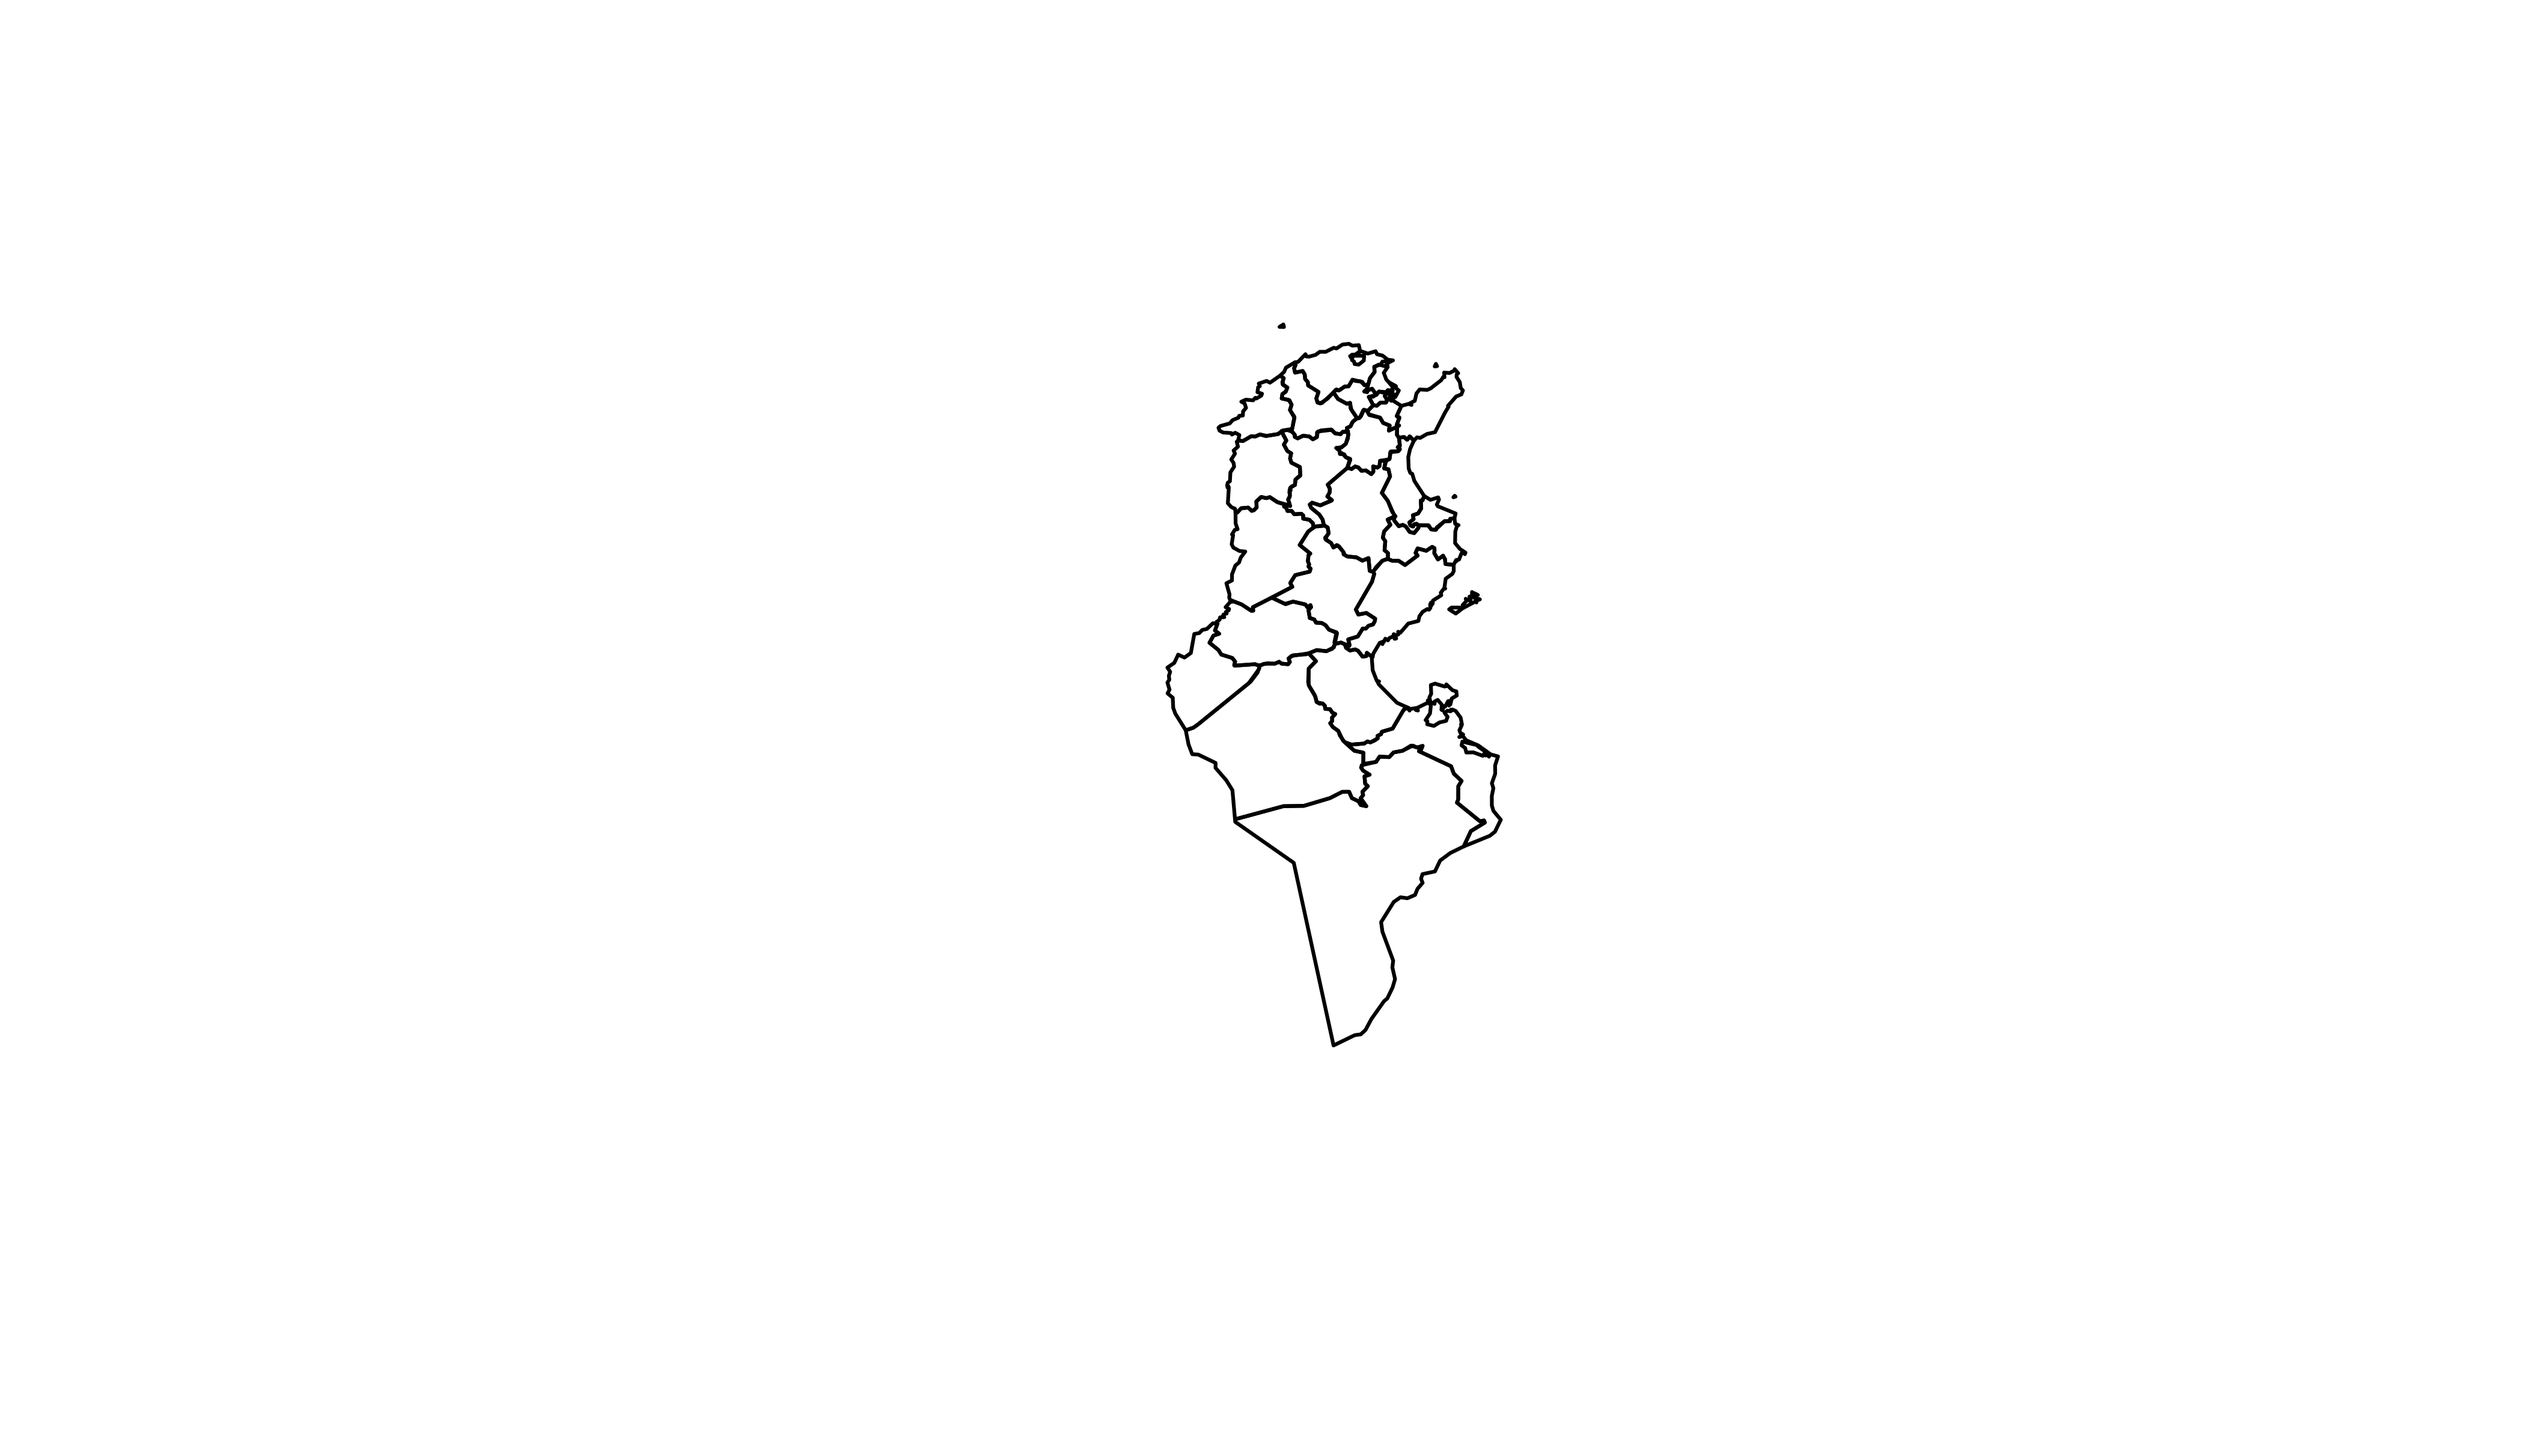
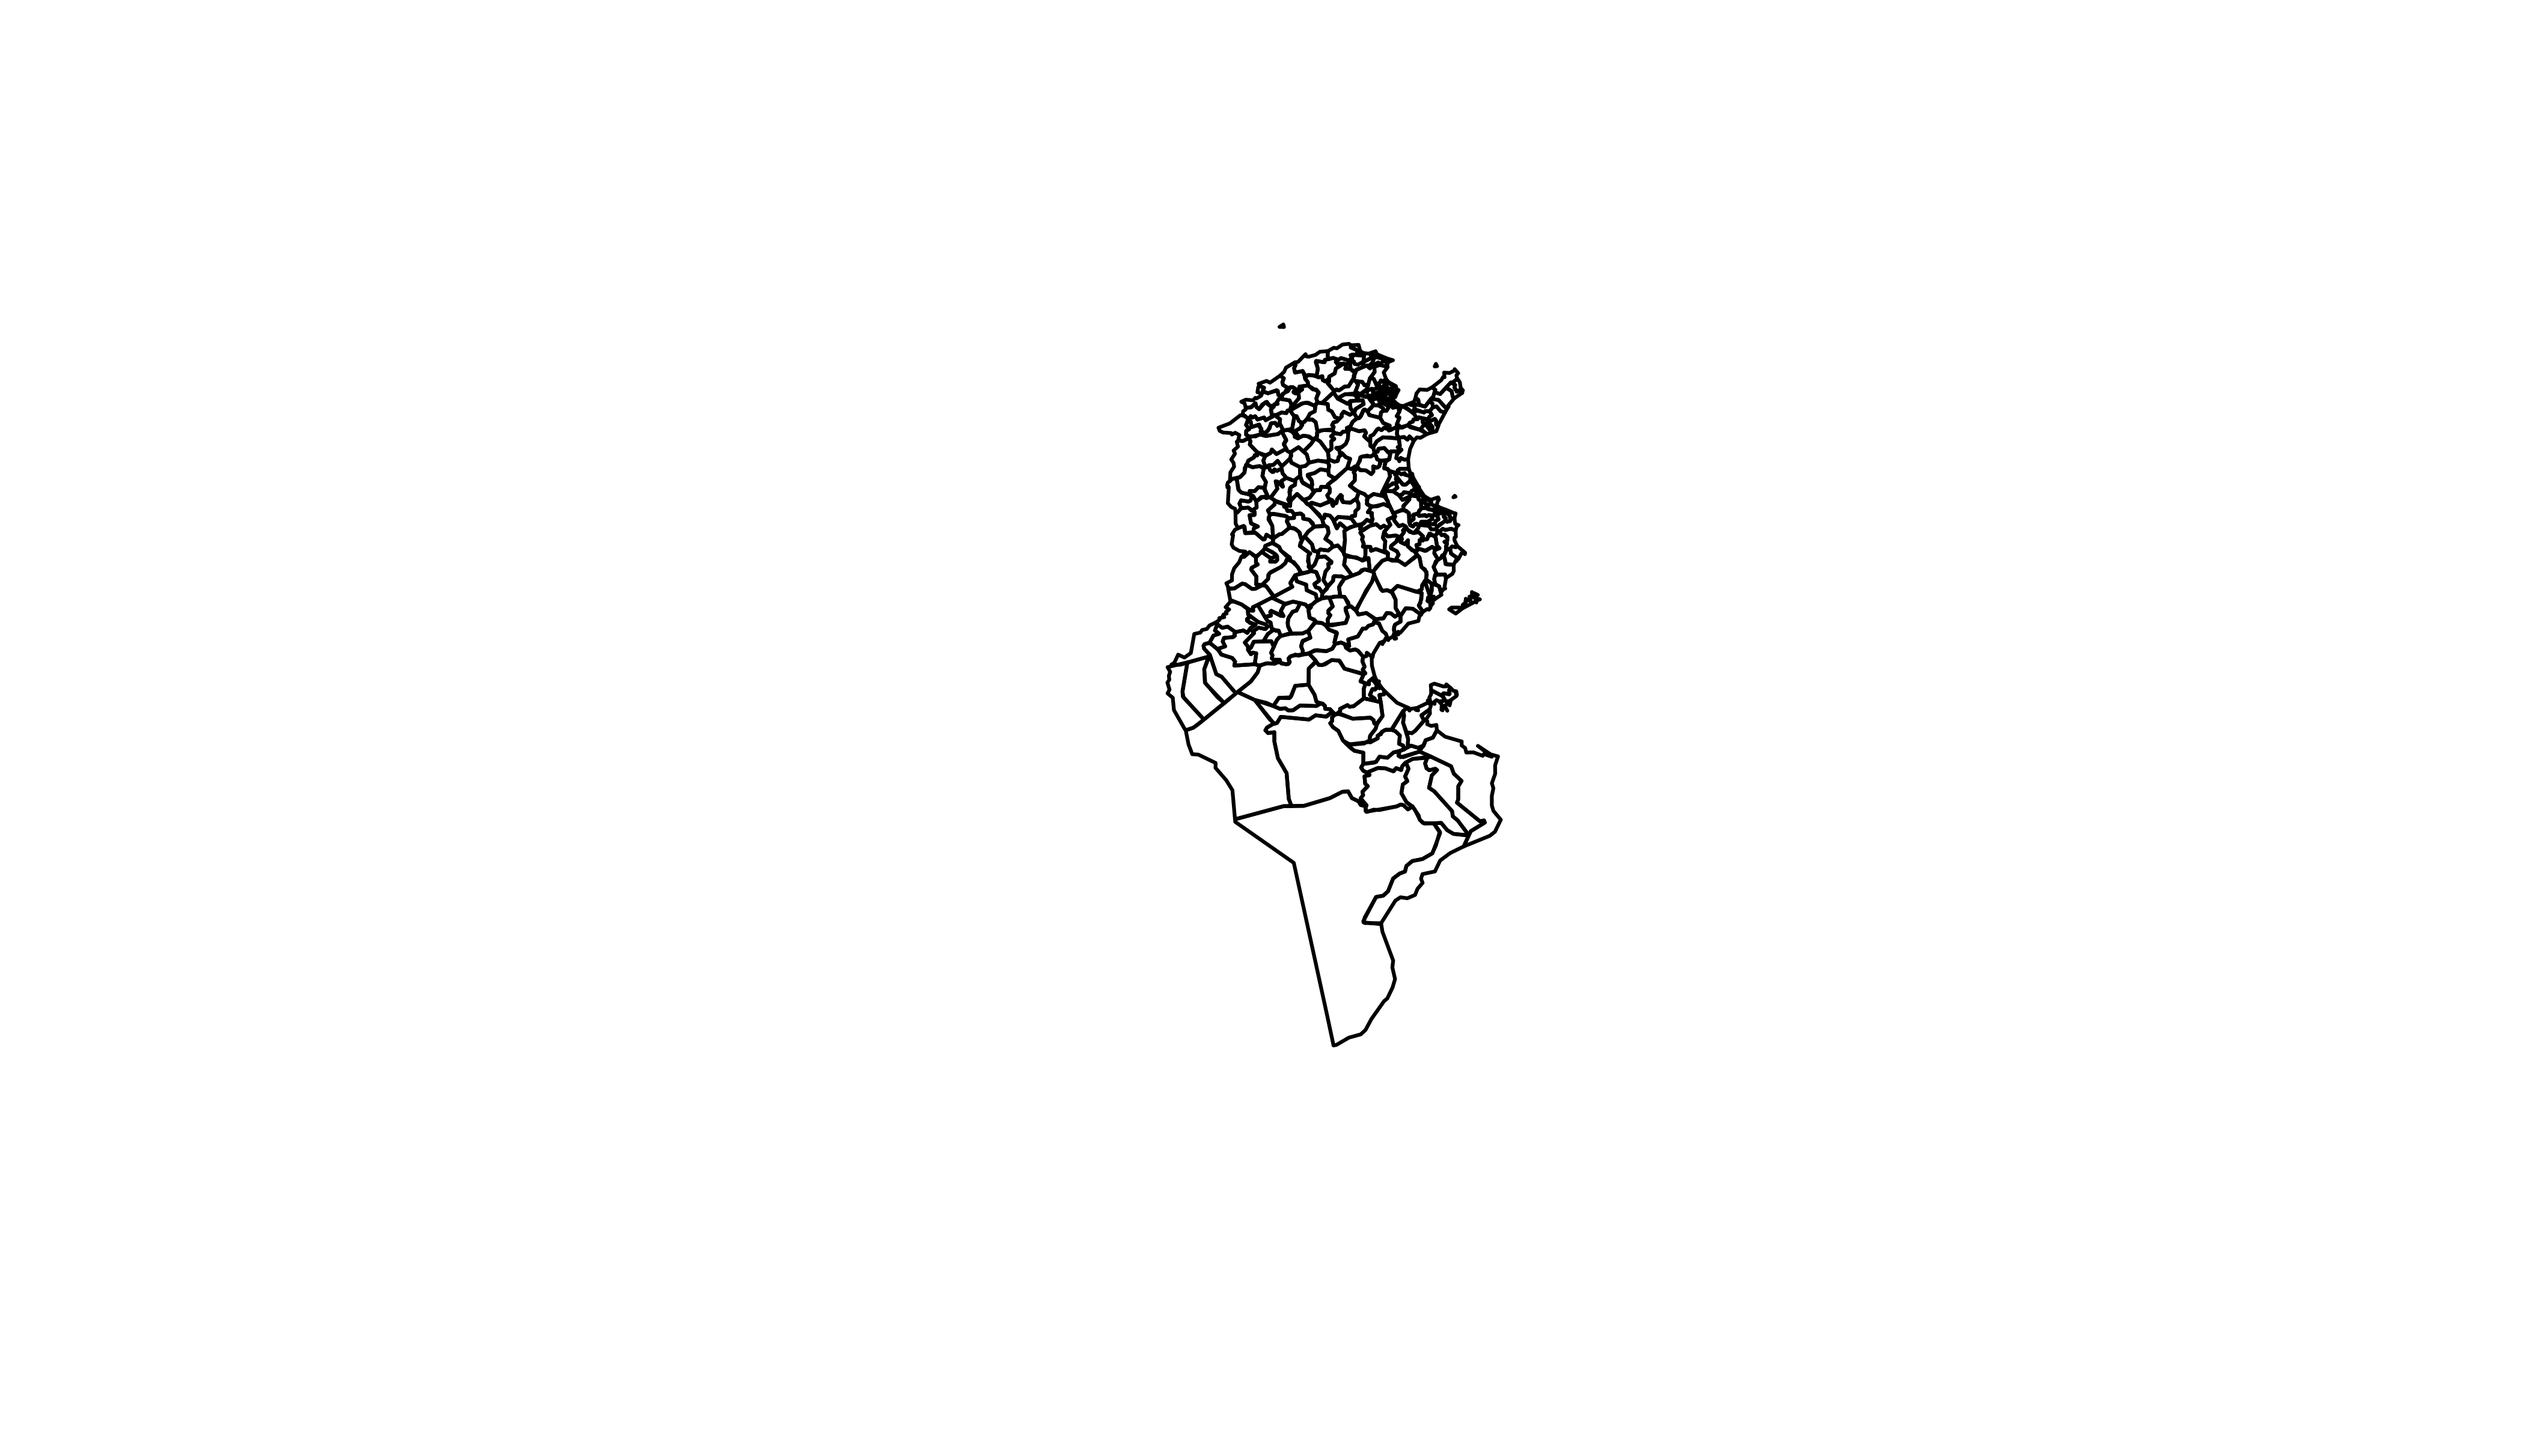
update schedule and raster 2

Changed region(s): [[0.4679, 0.25, 0.5926, 0.5625], [0.5614, 0.5625, 0.5926, 0.5938]]

diff --git a/docs/Schedule.html b/docs/Schedule.html
@@ -454,48 +454,48 @@ div.tocify {
 <td align="left">10/5</td>
 <td align="left"><strong>Spatial Raster I</strong></td>
 <td align="left">Working with gridded spatial data</td>
-<td align="left">Project Proposal Due</td>
+<td align="left">Project Proposal Due 10/10</td>
 <td align="right">4</td>
 </tr>
 <tr class="odd">
 <td align="left">10/12</td>
 <td align="left"><strong>Spatial Raster II</strong></td>
-<td align="left">Raster calculations, working with climate datasets.</td>
+<td align="left">A ‘mini’ project - looking at sea level rise in Bangladesh</td>
 <td align="left"></td>
 <td align="right">5</td>
 </tr>
 <tr class="even">
 <td align="left">10/19</td>
-<td align="left"><strong>Spatial Raster III</strong></td>
-<td align="left">A ‘mini’ project - looking at sea level rise in Bangladesh</td>
+<td align="left"><strong>Reproducible Research &amp; Literate Programming</strong></td>
+<td align="left">RMarkdown to create dynamic research outputs. Publishing to github/word/html/etc.</td>
 <td align="left"></td>
 <td align="right">6</td>
 </tr>
 <tr class="odd">
 <td align="left">10/26</td>
-<td align="left"><strong>Reproducible Research &amp; Literate Programming</strong></td>
-<td align="left">RMarkdown to create dynamic research outputs. Publishing to github/word/html/etc.</td>
+<td align="left"><strong>Weather/Climate Data Processing </strong></td>
+<td align="left">Processing daily weather data from NOAA</td>
 <td align="left">Homework # 3</td>
 <td align="right">7</td>
 </tr>
 <tr class="even">
 <td align="left">11/2</td>
-<td align="left"><strong>Weather/Climate Data Processing </strong></td>
-<td align="left">Processing daily weather data from NOAA</td>
+<td align="left"><strong>Satellite Data Processing</strong></td>
+<td align="left">Working with MODIS Satellite data</td>
 <td align="left">First draft of project for peer assessment</td>
 <td align="right">8</td>
 </tr>
 <tr class="odd">
 <td align="left">11/9</td>
-<td align="left"><strong>Satellite Data Processing</strong></td>
-<td align="left">Working with MODIS Satellite data</td>
+<td align="left"><strong>High Performance Computing &amp; Software Integration</strong></td>
+<td align="left">Parallel processing and high performance computing in R, Calling other programs from within R.</td>
 <td align="left">Peer Evaluation Due</td>
 <td align="right">9</td>
 </tr>
 <tr class="even">
 <td align="left">11/16</td>
-<td align="left"><strong>High Performance Computing &amp; Software Integration</strong></td>
-<td align="left">Parallel processing and high performance computing in R, Calling other programs from within R.</td>
+<td align="left"></td>
+<td align="left"></td>
 <td align="left">Homework # 4</td>
 <td align="right">10</td>
 </tr>

diff --git a/docs/05_Raster.html b/docs/05_Raster.html
@@ -501,7 +501,7 @@ Show Solution
   filter(NAME==&quot;Tunisia&quot;)</code></pre>
 <pre><code>##   ISO3    NAME
 ## 1  TUN Tunisia</code></pre>
-<pre class="r"><code>country=getData(&#39;GADM&#39;, country=&#39;TUN&#39;, level=1)
+<pre class="r"><code>country=getData(&#39;GADM&#39;, country=&#39;TUN&#39;, level=2)
 
 country%&gt;% 
   gSimplify(0.01)%&gt;%
@@ -671,7 +671,7 @@ plot(x)</code></pre>
 <h2>Warping rasters</h2>
 <p>Use <code>projectRaster()</code> to <em>warp</em> to a different projection.</p>
 <p><code>method=</code> <code>ngb</code> (for categorical) or <code>bilinear</code> (continuous)</p>
-<pre class="r"><code>r2=projectRaster(r,crs=&quot;+proj=sinu +lon_0=0&quot;,method = )</code></pre>
+<pre class="r"><code>r2=projectRaster(r,crs=&quot;+proj=sinu +lon_0=0&quot;,method = &quot;ngb&quot;)</code></pre>
 <pre><code>## Warning in rgdal::rawTransform(projto_int, projfrom, nrow(xy), xy[, 1], :
 ## 48 projected point(s) not finite</code></pre>
 <pre class="r"><code>par(mfrow=c(1,2));plot(r);plot(r2)</code></pre>
@@ -874,10 +874,17 @@ rf_min &lt;- focal(r1, w=matrix(1,11,11), fun=min)
 rf_max &lt;- focal(r1, w=matrix(1,11,11), fun=max)
 rf_range=rf_max-rf_min
 
-## or just use the range function
-rf_range2 &lt;- focal(r1, w=matrix(1,11,11), fun=range)
-plot(rf_range2)</code></pre>
+## or do it all at once
+range2=function(x,na.rm=F) {
+  max(x,na.rm)-min(x,na.rm)
+}
+
+rf_range2 &lt;- focal(r1, w=matrix(1,11,11), fun=range2)
+
+plot(rf_range)</code></pre>
 <p><img src="05_Raster_files/figure-html/unnamed-chunk-38-1.png" width="2100" /></p>
+<pre class="r"><code>plot(rf_range2)</code></pre>
+<p><img src="05_Raster_files/figure-html/unnamed-chunk-38-2.png" width="2100" /></p>
 <div class="well">
 <h2 id="your-turn-3">Your turn</h2>
 <p>Plot the focal standard deviation of <code>r1</code> over a 3x3 window.</p>

diff --git a/docs/07_Reproducibile.html b/docs/07_Reproducibile.html
@@ -553,9 +553,11 @@ div.tocify {
 </blockquote>
 <p>For example… Let’s calculate the current time in R.</p>
 <pre class="r"><code>time &lt;- format(Sys.time(), &quot;%a %d %b %X %Y&quot;)</code></pre>
+<pre><code>## Warning in as.POSIXlt.POSIXct(x, tz): unknown timezone &#39;default/America/
+## New_York&#39;</code></pre>
 <p>The text and R code are interwoven in the output:</p>
 <p>The time is <code>`r time`</code></p>
-<p>The time is Thu 28 Sep 09:21:22 2017</p>
+<p>The time is Thu 12 Oct 13:25:37 2017</p>
 </div>
 <div id="literate-programming-for-and-against" class="section level2 columns-2">
 <h2>Literate programming: for and against</h2>
@@ -729,8 +731,9 @@ div.tocify {
 CODE HERE
 #```</code></pre>
 <p>Load these packages in a code chunk (you may need to install some packages):</p>
-<pre class="r"><code>library(dplyr)
-library(ggplot2)
+<pre class="r"><code>library(dplyr)</code></pre>
+<pre><code>## Warning: package &#39;dplyr&#39; was built under R version 3.4.2</code></pre>
+<pre class="r"><code>library(ggplot2)
 library(maps)
 library(spocc)</code></pre>
 <blockquote>
